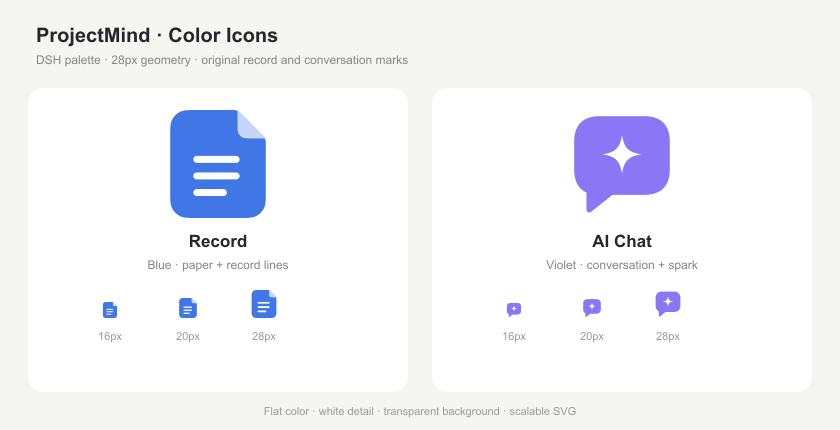
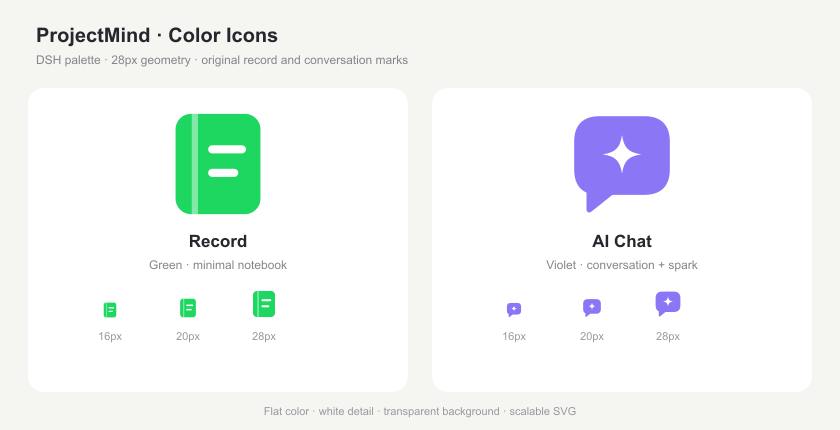
design: simplify Record notebook with green and pink variants (#124)

diff --git a/docs/design/record-ai-chat-icons-20261013.html b/docs/design/record-ai-chat-icons-20261013.html
@@ -1,53 +1,136 @@
-<!doctype html><html lang="zh-CN"><meta charset="utf-8"><meta name="viewport" content="width=device-width,initial-scale=1"><title>Record 与 AI 对话 · 彩色图标提案</title><style>*{box-sizing:border-box}body{margin:0;padding:48px 32px;background:#f5f5f2;color:#28282d;font-family:system-ui,-apple-system,sans-serif}main{max-width:850px;margin:auto}h1{font-size:26px;font-weight:600;margin:0 0 12px}.intro{color:#85858b;font-size:14px;margin:0 0 28px}.grid{display:grid;grid-template-columns:repeat(2,minmax(0,1fr));gap:20px}article{background:#fff;border-radius:16px;padding:34px 28px}h2{text-align:center;font-size:18px;margin:18px 0 8px}article>p{text-align:center;font-size:13px;color:#85858b;margin:0 0 28px}.hero{display:flex;justify-content:center}.sizes{display:flex;gap:30px;align-items:flex-end;justify-content:center;padding-bottom:28px}.sizes>span{display:flex;flex-direction:column;align-items:center;gap:10px}small{font-size:11px;color:#aaa}.tab{display:flex;align-items:center;gap:9px;padding:12px 14px;border-radius:8px;font-size:13px;background:#f4f4f7;margin:8px 0}.dark{background:#25242b;color:#e9e8ee}svg{display:block;flex:none}footer{margin-top:22px;font-size:12px;color:#999;text-align:center}@media(max-width:600px){body{padding:24px 16px}.grid{grid-template-columns:1fr}}</style><main><h1>Record 与 AI 对话</h1><p class="intro">参照 DSH 彩色图标：实色、圆角、白色标记；放大预览与实际使用尺寸。</p><div class="grid"><article><div class="hero"><svg xmlns="http://www.w3.org/2000/svg" width="112" height="112" viewBox="0 0 28 28" fill="none">
+<!doctype html><html lang="zh-CN"><meta charset="utf-8"><meta name="viewport" content="width=device-width,initial-scale=1"><title>Record 与 AI 对话 · 彩色图标提案</title><style>*{box-sizing:border-box}body{margin:0;padding:48px 32px;background:#f5f5f2;color:#28282d;font-family:system-ui,-apple-system,sans-serif}main{max-width:850px;margin:auto}h1{font-size:26px;font-weight:600;margin:0 0 12px}.intro{color:#85858b;font-size:14px;margin:0 0 28px}.grid{display:grid;grid-template-columns:repeat(2,minmax(0,1fr));gap:20px}article{background:#fff;border-radius:16px;padding:34px 28px}h2{text-align:center;font-size:18px;margin:18px 0 8px}article>p{text-align:center;font-size:13px;color:#85858b;margin:0 0 28px}.hero{display:flex;justify-content:center}.sizes{display:flex;gap:30px;align-items:flex-end;justify-content:center;padding-bottom:28px}.sizes>span{display:flex;flex-direction:column;align-items:center;gap:10px}small{font-size:11px;color:#aaa}.tab{display:flex;align-items:center;gap:9px;padding:12px 14px;border-radius:8px;font-size:13px;background:#f4f4f7;margin:8px 0}.dark{background:#25242b;color:#e9e8ee}svg{display:block;flex:none}footer{margin-top:22px;font-size:12px;color:#999;text-align:center}@media(max-width:600px){body{padding:24px 16px}.grid{grid-template-columns:1fr}}</style><main><h1>Record 绿色／粉色与 AI 对话</h1><p class="intro">参照 DSH 彩色图标：实色、圆角、白色标记；放大预览与实际使用尺寸。</p><div class="grid"><article><div class="hero"><svg xmlns="http://www.w3.org/2000/svg" width="112" height="112" viewBox="0 0 28 28" fill="none">
   <title>Record</title>
-  <!-- Document silhouette follows the vendored MIT DSH FileTypeIcon; record mark is original. -->
-  <path d="M8.48924 28H19.5108C21.6479 28 22.7165 28 23.5594 27.6509C24.6833 27.1853 25.5762 26.2924 26.0417 25.1685C26.3909 24.3256 26.3909 23.257 26.3909 21.1199V8.79443C26.3909 8.32877 26.3909 8.09593 26.3471 7.87507C26.2887 7.58058 26.173 7.30042 26.0067 7.05048C25.882 6.86303 25.7177 6.69799 25.3893 6.36792L20.0611 1.01354C19.7304 .681235 19.5651 .515081 19.3769 .38885C19.126 .220541 18.8443 .103463 18.5481 .0443412C18.3259 0 18.0915 0 17.6226 0H8.48924C6.35209 0 5.28351 0 4.4406 .349145C3.31672 .814671 2.4238 1.70759 1.95828 2.83147C1.60913 3.67438 1.60913 4.74296 1.60913 6.88011V21.1199C1.60913 23.257 1.60913 24.3256 1.95828 25.1685C2.4238 26.2924 3.31672 27.1853 4.4406 27.6509C5.28351 28 6.35209 28 8.48924 28Z" fill="#4176E6"/>
-  <path d="M26.3909 7.37445L19.0525 0V3.77445C19.0525 4.89271 19.0525 5.45184 19.2352 5.89289C19.4788 6.48096 19.946 6.94818 20.5341 7.19176C20.9751 7.37445 21.5342 7.37445 22.6525 7.37445H26.3909Z" fill="#FFF" fill-opacity=".7"/>
-  <path d="M8.5 12.8H18.7M8.5 17.1H18.7M8.5 21.4H15.4" stroke="#FFF" stroke-width="1.8" stroke-linecap="round"/>
+  <!-- Original minimal notebook: continuous spine, two record lines, no binding dots. -->
+  <rect x="3" y="1" width="22" height="26" rx="4" fill="#1ED760"/>
+  <path d="M8 1V27" stroke="#FFF" stroke-opacity=".45" stroke-width="1.6"/>
+  <path d="M12.5 10.2H20.2M12.5 16.3H18.2" stroke="#FFF" stroke-width="2.1" stroke-linecap="round"/>
 </svg>
-</div><h2>Record · 记录</h2><p>蓝色折角纸页，白色记录线</p><div class="sizes"><span><svg xmlns="http://www.w3.org/2000/svg" width="16" height="16" viewBox="0 0 28 28" fill="none">
+
+
+</div><h2>Record · 绿色</h2><p>绿色简洁笔记本，连续书脊与两条记录线</p><div class="sizes"><span><svg xmlns="http://www.w3.org/2000/svg" width="16" height="16" viewBox="0 0 28 28" fill="none">
   <title>Record</title>
-  <!-- Document silhouette follows the vendored MIT DSH FileTypeIcon; record mark is original. -->
-  <path d="M8.48924 28H19.5108C21.6479 28 22.7165 28 23.5594 27.6509C24.6833 27.1853 25.5762 26.2924 26.0417 25.1685C26.3909 24.3256 26.3909 23.257 26.3909 21.1199V8.79443C26.3909 8.32877 26.3909 8.09593 26.3471 7.87507C26.2887 7.58058 26.173 7.30042 26.0067 7.05048C25.882 6.86303 25.7177 6.69799 25.3893 6.36792L20.0611 1.01354C19.7304 .681235 19.5651 .515081 19.3769 .38885C19.126 .220541 18.8443 .103463 18.5481 .0443412C18.3259 0 18.0915 0 17.6226 0H8.48924C6.35209 0 5.28351 0 4.4406 .349145C3.31672 .814671 2.4238 1.70759 1.95828 2.83147C1.60913 3.67438 1.60913 4.74296 1.60913 6.88011V21.1199C1.60913 23.257 1.60913 24.3256 1.95828 25.1685C2.4238 26.2924 3.31672 27.1853 4.4406 27.6509C5.28351 28 6.35209 28 8.48924 28Z" fill="#4176E6"/>
-  <path d="M26.3909 7.37445L19.0525 0V3.77445C19.0525 4.89271 19.0525 5.45184 19.2352 5.89289C19.4788 6.48096 19.946 6.94818 20.5341 7.19176C20.9751 7.37445 21.5342 7.37445 22.6525 7.37445H26.3909Z" fill="#FFF" fill-opacity=".7"/>
-  <path d="M8.5 12.8H18.7M8.5 17.1H18.7M8.5 21.4H15.4" stroke="#FFF" stroke-width="1.8" stroke-linecap="round"/>
+  <!-- Original minimal notebook: continuous spine, two record lines, no binding dots. -->
+  <rect x="3" y="1" width="22" height="26" rx="4" fill="#1ED760"/>
+  <path d="M8 1V27" stroke="#FFF" stroke-opacity=".45" stroke-width="1.6"/>
+  <path d="M12.5 10.2H20.2M12.5 16.3H18.2" stroke="#FFF" stroke-width="2.1" stroke-linecap="round"/>
 </svg>
+
+
 <small>16px</small></span><span><svg xmlns="http://www.w3.org/2000/svg" width="20" height="20" viewBox="0 0 28 28" fill="none">
   <title>Record</title>
-  <!-- Document silhouette follows the vendored MIT DSH FileTypeIcon; record mark is original. -->
-  <path d="M8.48924 28H19.5108C21.6479 28 22.7165 28 23.5594 27.6509C24.6833 27.1853 25.5762 26.2924 26.0417 25.1685C26.3909 24.3256 26.3909 23.257 26.3909 21.1199V8.79443C26.3909 8.32877 26.3909 8.09593 26.3471 7.87507C26.2887 7.58058 26.173 7.30042 26.0067 7.05048C25.882 6.86303 25.7177 6.69799 25.3893 6.36792L20.0611 1.01354C19.7304 .681235 19.5651 .515081 19.3769 .38885C19.126 .220541 18.8443 .103463 18.5481 .0443412C18.3259 0 18.0915 0 17.6226 0H8.48924C6.35209 0 5.28351 0 4.4406 .349145C3.31672 .814671 2.4238 1.70759 1.95828 2.83147C1.60913 3.67438 1.60913 4.74296 1.60913 6.88011V21.1199C1.60913 23.257 1.60913 24.3256 1.95828 25.1685C2.4238 26.2924 3.31672 27.1853 4.4406 27.6509C5.28351 28 6.35209 28 8.48924 28Z" fill="#4176E6"/>
-  <path d="M26.3909 7.37445L19.0525 0V3.77445C19.0525 4.89271 19.0525 5.45184 19.2352 5.89289C19.4788 6.48096 19.946 6.94818 20.5341 7.19176C20.9751 7.37445 21.5342 7.37445 22.6525 7.37445H26.3909Z" fill="#FFF" fill-opacity=".7"/>
-  <path d="M8.5 12.8H18.7M8.5 17.1H18.7M8.5 21.4H15.4" stroke="#FFF" stroke-width="1.8" stroke-linecap="round"/>
+  <!-- Original minimal notebook: continuous spine, two record lines, no binding dots. -->
+  <rect x="3" y="1" width="22" height="26" rx="4" fill="#1ED760"/>
+  <path d="M8 1V27" stroke="#FFF" stroke-opacity=".45" stroke-width="1.6"/>
+  <path d="M12.5 10.2H20.2M12.5 16.3H18.2" stroke="#FFF" stroke-width="2.1" stroke-linecap="round"/>
 </svg>
+
+
 <small>20px</small></span><span><svg xmlns="http://www.w3.org/2000/svg" width="28" height="28" viewBox="0 0 28 28" fill="none">
   <title>Record</title>
-  <!-- Document silhouette follows the vendored MIT DSH FileTypeIcon; record mark is original. -->
-  <path d="M8.48924 28H19.5108C21.6479 28 22.7165 28 23.5594 27.6509C24.6833 27.1853 25.5762 26.2924 26.0417 25.1685C26.3909 24.3256 26.3909 23.257 26.3909 21.1199V8.79443C26.3909 8.32877 26.3909 8.09593 26.3471 7.87507C26.2887 7.58058 26.173 7.30042 26.0067 7.05048C25.882 6.86303 25.7177 6.69799 25.3893 6.36792L20.0611 1.01354C19.7304 .681235 19.5651 .515081 19.3769 .38885C19.126 .220541 18.8443 .103463 18.5481 .0443412C18.3259 0 18.0915 0 17.6226 0H8.48924C6.35209 0 5.28351 0 4.4406 .349145C3.31672 .814671 2.4238 1.70759 1.95828 2.83147C1.60913 3.67438 1.60913 4.74296 1.60913 6.88011V21.1199C1.60913 23.257 1.60913 24.3256 1.95828 25.1685C2.4238 26.2924 3.31672 27.1853 4.4406 27.6509C5.28351 28 6.35209 28 8.48924 28Z" fill="#4176E6"/>
-  <path d="M26.3909 7.37445L19.0525 0V3.77445C19.0525 4.89271 19.0525 5.45184 19.2352 5.89289C19.4788 6.48096 19.946 6.94818 20.5341 7.19176C20.9751 7.37445 21.5342 7.37445 22.6525 7.37445H26.3909Z" fill="#FFF" fill-opacity=".7"/>
-  <path d="M8.5 12.8H18.7M8.5 17.1H18.7M8.5 21.4H15.4" stroke="#FFF" stroke-width="1.8" stroke-linecap="round"/>
+  <!-- Original minimal notebook: continuous spine, two record lines, no binding dots. -->
+  <rect x="3" y="1" width="22" height="26" rx="4" fill="#1ED760"/>
+  <path d="M8 1V27" stroke="#FFF" stroke-opacity=".45" stroke-width="1.6"/>
+  <path d="M12.5 10.2H20.2M12.5 16.3H18.2" stroke="#FFF" stroke-width="2.1" stroke-linecap="round"/>
 </svg>
+
+
 <small>28px</small></span><span><svg xmlns="http://www.w3.org/2000/svg" width="32" height="32" viewBox="0 0 28 28" fill="none">
   <title>Record</title>
-  <!-- Document silhouette follows the vendored MIT DSH FileTypeIcon; record mark is original. -->
-  <path d="M8.48924 28H19.5108C21.6479 28 22.7165 28 23.5594 27.6509C24.6833 27.1853 25.5762 26.2924 26.0417 25.1685C26.3909 24.3256 26.3909 23.257 26.3909 21.1199V8.79443C26.3909 8.32877 26.3909 8.09593 26.3471 7.87507C26.2887 7.58058 26.173 7.30042 26.0067 7.05048C25.882 6.86303 25.7177 6.69799 25.3893 6.36792L20.0611 1.01354C19.7304 .681235 19.5651 .515081 19.3769 .38885C19.126 .220541 18.8443 .103463 18.5481 .0443412C18.3259 0 18.0915 0 17.6226 0H8.48924C6.35209 0 5.28351 0 4.4406 .349145C3.31672 .814671 2.4238 1.70759 1.95828 2.83147C1.60913 3.67438 1.60913 4.74296 1.60913 6.88011V21.1199C1.60913 23.257 1.60913 24.3256 1.95828 25.1685C2.4238 26.2924 3.31672 27.1853 4.4406 27.6509C5.28351 28 6.35209 28 8.48924 28Z" fill="#4176E6"/>
-  <path d="M26.3909 7.37445L19.0525 0V3.77445C19.0525 4.89271 19.0525 5.45184 19.2352 5.89289C19.4788 6.48096 19.946 6.94818 20.5341 7.19176C20.9751 7.37445 21.5342 7.37445 22.6525 7.37445H26.3909Z" fill="#FFF" fill-opacity=".7"/>
-  <path d="M8.5 12.8H18.7M8.5 17.1H18.7M8.5 21.4H15.4" stroke="#FFF" stroke-width="1.8" stroke-linecap="round"/>
+  <!-- Original minimal notebook: continuous spine, two record lines, no binding dots. -->
+  <rect x="3" y="1" width="22" height="26" rx="4" fill="#1ED760"/>
+  <path d="M8 1V27" stroke="#FFF" stroke-opacity=".45" stroke-width="1.6"/>
+  <path d="M12.5 10.2H20.2M12.5 16.3H18.2" stroke="#FFF" stroke-width="2.1" stroke-linecap="round"/>
 </svg>
+
+
 <small>32px</small></span></div><div class="tab"><svg xmlns="http://www.w3.org/2000/svg" width="16" height="16" viewBox="0 0 28 28" fill="none">
   <title>Record</title>
-  <!-- Document silhouette follows the vendored MIT DSH FileTypeIcon; record mark is original. -->
-  <path d="M8.48924 28H19.5108C21.6479 28 22.7165 28 23.5594 27.6509C24.6833 27.1853 25.5762 26.2924 26.0417 25.1685C26.3909 24.3256 26.3909 23.257 26.3909 21.1199V8.79443C26.3909 8.32877 26.3909 8.09593 26.3471 7.87507C26.2887 7.58058 26.173 7.30042 26.0067 7.05048C25.882 6.86303 25.7177 6.69799 25.3893 6.36792L20.0611 1.01354C19.7304 .681235 19.5651 .515081 19.3769 .38885C19.126 .220541 18.8443 .103463 18.5481 .0443412C18.3259 0 18.0915 0 17.6226 0H8.48924C6.35209 0 5.28351 0 4.4406 .349145C3.31672 .814671 2.4238 1.70759 1.95828 2.83147C1.60913 3.67438 1.60913 4.74296 1.60913 6.88011V21.1199C1.60913 23.257 1.60913 24.3256 1.95828 25.1685C2.4238 26.2924 3.31672 27.1853 4.4406 27.6509C5.28351 28 6.35209 28 8.48924 28Z" fill="#4176E6"/>
-  <path d="M26.3909 7.37445L19.0525 0V3.77445C19.0525 4.89271 19.0525 5.45184 19.2352 5.89289C19.4788 6.48096 19.946 6.94818 20.5341 7.19176C20.9751 7.37445 21.5342 7.37445 22.6525 7.37445H26.3909Z" fill="#FFF" fill-opacity=".7"/>
-  <path d="M8.5 12.8H18.7M8.5 17.1H18.7M8.5 21.4H15.4" stroke="#FFF" stroke-width="1.8" stroke-linecap="round"/>
+  <!-- Original minimal notebook: continuous spine, two record lines, no binding dots. -->
+  <rect x="3" y="1" width="22" height="26" rx="4" fill="#1ED760"/>
+  <path d="M8 1V27" stroke="#FFF" stroke-opacity=".45" stroke-width="1.6"/>
+  <path d="M12.5 10.2H20.2M12.5 16.3H18.2" stroke="#FFF" stroke-width="2.1" stroke-linecap="round"/>
 </svg>
-<span>Record · 记录</span></div><div class="tab dark"><svg xmlns="http://www.w3.org/2000/svg" width="16" height="16" viewBox="0 0 28 28" fill="none">
+
+
+<span>Record · 绿色</span></div><div class="tab dark"><svg xmlns="http://www.w3.org/2000/svg" width="16" height="16" viewBox="0 0 28 28" fill="none">
   <title>Record</title>
-  <!-- Document silhouette follows the vendored MIT DSH FileTypeIcon; record mark is original. -->
-  <path d="M8.48924 28H19.5108C21.6479 28 22.7165 28 23.5594 27.6509C24.6833 27.1853 25.5762 26.2924 26.0417 25.1685C26.3909 24.3256 26.3909 23.257 26.3909 21.1199V8.79443C26.3909 8.32877 26.3909 8.09593 26.3471 7.87507C26.2887 7.58058 26.173 7.30042 26.0067 7.05048C25.882 6.86303 25.7177 6.69799 25.3893 6.36792L20.0611 1.01354C19.7304 .681235 19.5651 .515081 19.3769 .38885C19.126 .220541 18.8443 .103463 18.5481 .0443412C18.3259 0 18.0915 0 17.6226 0H8.48924C6.35209 0 5.28351 0 4.4406 .349145C3.31672 .814671 2.4238 1.70759 1.95828 2.83147C1.60913 3.67438 1.60913 4.74296 1.60913 6.88011V21.1199C1.60913 23.257 1.60913 24.3256 1.95828 25.1685C2.4238 26.2924 3.31672 27.1853 4.4406 27.6509C5.28351 28 6.35209 28 8.48924 28Z" fill="#4176E6"/>
-  <path d="M26.3909 7.37445L19.0525 0V3.77445C19.0525 4.89271 19.0525 5.45184 19.2352 5.89289C19.4788 6.48096 19.946 6.94818 20.5341 7.19176C20.9751 7.37445 21.5342 7.37445 22.6525 7.37445H26.3909Z" fill="#FFF" fill-opacity=".7"/>
-  <path d="M8.5 12.8H18.7M8.5 17.1H18.7M8.5 21.4H15.4" stroke="#FFF" stroke-width="1.8" stroke-linecap="round"/>
+  <!-- Original minimal notebook: continuous spine, two record lines, no binding dots. -->
+  <rect x="3" y="1" width="22" height="26" rx="4" fill="#1ED760"/>
+  <path d="M8 1V27" stroke="#FFF" stroke-opacity=".45" stroke-width="1.6"/>
+  <path d="M12.5 10.2H20.2M12.5 16.3H18.2" stroke="#FFF" stroke-width="2.1" stroke-linecap="round"/>
 </svg>
-<span>Record · 记录</span></div></article><article><div class="hero"><svg xmlns="http://www.w3.org/2000/svg" width="112" height="112" viewBox="0 0 28 28" fill="none">
+
+
+<span>Record · 绿色</span></div></article><article><div class="hero"><svg xmlns="http://www.w3.org/2000/svg" width="112" height="112" viewBox="0 0 28 28" fill="none">
+  <title>Record · Pink</title>
+  <!-- Original minimal notebook: continuous spine, two record lines, no binding dots. -->
+  <rect x="3" y="1" width="22" height="26" rx="4" fill="#FB7299"/>
+  <path d="M8 1V27" stroke="#FFF" stroke-opacity=".45" stroke-width="1.6"/>
+  <path d="M12.5 10.2H20.2M12.5 16.3H18.2" stroke="#FFF" stroke-width="2.1" stroke-linecap="round"/>
+</svg>
+
+
+</div><h2>Record · 粉色</h2><p>粉色简洁笔记本，连续书脊与两条记录线</p><div class="sizes"><span><svg xmlns="http://www.w3.org/2000/svg" width="16" height="16" viewBox="0 0 28 28" fill="none">
+  <title>Record · Pink</title>
+  <!-- Original minimal notebook: continuous spine, two record lines, no binding dots. -->
+  <rect x="3" y="1" width="22" height="26" rx="4" fill="#FB7299"/>
+  <path d="M8 1V27" stroke="#FFF" stroke-opacity=".45" stroke-width="1.6"/>
+  <path d="M12.5 10.2H20.2M12.5 16.3H18.2" stroke="#FFF" stroke-width="2.1" stroke-linecap="round"/>
+</svg>
+
+
+
+<small>16px</small></span><span><svg xmlns="http://www.w3.org/2000/svg" width="20" height="20" viewBox="0 0 28 28" fill="none">
+  <title>Record · Pink</title>
+  <!-- Original minimal notebook: continuous spine, two record lines, no binding dots. -->
+  <rect x="3" y="1" width="22" height="26" rx="4" fill="#FB7299"/>
+  <path d="M8 1V27" stroke="#FFF" stroke-opacity=".45" stroke-width="1.6"/>
+  <path d="M12.5 10.2H20.2M12.5 16.3H18.2" stroke="#FFF" stroke-width="2.1" stroke-linecap="round"/>
+</svg>
+
+
+
+<small>20px</small></span><span><svg xmlns="http://www.w3.org/2000/svg" width="28" height="28" viewBox="0 0 28 28" fill="none">
+  <title>Record · Pink</title>
+  <!-- Original minimal notebook: continuous spine, two record lines, no binding dots. -->
+  <rect x="3" y="1" width="22" height="26" rx="4" fill="#FB7299"/>
+  <path d="M8 1V27" stroke="#FFF" stroke-opacity=".45" stroke-width="1.6"/>
+  <path d="M12.5 10.2H20.2M12.5 16.3H18.2" stroke="#FFF" stroke-width="2.1" stroke-linecap="round"/>
+</svg>
+
+
+
+<small>28px</small></span><span><svg xmlns="http://www.w3.org/2000/svg" width="32" height="32" viewBox="0 0 28 28" fill="none">
+  <title>Record · Pink</title>
+  <!-- Original minimal notebook: continuous spine, two record lines, no binding dots. -->
+  <rect x="3" y="1" width="22" height="26" rx="4" fill="#FB7299"/>
+  <path d="M8 1V27" stroke="#FFF" stroke-opacity=".45" stroke-width="1.6"/>
+  <path d="M12.5 10.2H20.2M12.5 16.3H18.2" stroke="#FFF" stroke-width="2.1" stroke-linecap="round"/>
+</svg>
+
+
+
+<small>32px</small></span></div><div class="tab"><svg xmlns="http://www.w3.org/2000/svg" width="16" height="16" viewBox="0 0 28 28" fill="none">
+  <title>Record · Pink</title>
+  <!-- Original minimal notebook: continuous spine, two record lines, no binding dots. -->
+  <rect x="3" y="1" width="22" height="26" rx="4" fill="#FB7299"/>
+  <path d="M8 1V27" stroke="#FFF" stroke-opacity=".45" stroke-width="1.6"/>
+  <path d="M12.5 10.2H20.2M12.5 16.3H18.2" stroke="#FFF" stroke-width="2.1" stroke-linecap="round"/>
+</svg>
+
+
+
+<span>Record · 粉色</span></div><div class="tab dark"><svg xmlns="http://www.w3.org/2000/svg" width="16" height="16" viewBox="0 0 28 28" fill="none">
+  <title>Record · Pink</title>
+  <!-- Original minimal notebook: continuous spine, two record lines, no binding dots. -->
+  <rect x="3" y="1" width="22" height="26" rx="4" fill="#FB7299"/>
+  <path d="M8 1V27" stroke="#FFF" stroke-opacity=".45" stroke-width="1.6"/>
+  <path d="M12.5 10.2H20.2M12.5 16.3H18.2" stroke="#FFF" stroke-width="2.1" stroke-linecap="round"/>
+</svg>
+
+
+
+<span>Record · 粉色</span></div></article><article><div class="hero"><svg xmlns="http://www.w3.org/2000/svg" width="112" height="112" viewBox="0 0 28 28" fill="none">
   <title>AI 对话</title>
   <!-- Original conversation silhouette; violet matches the DSH image/video palette. -->
   <path d="M8.2 1.6H19.8C24.12 1.6 26.4 3.88 26.4 8.2V15.4C26.4 19.72 24.12 22 19.8 22H11.5L6 26.4C5.5 26.8 4.8 26.46 4.8 25.82V21.42C2.66 20.48 1.6 18.44 1.6 15.4V8.2C1.6 3.88 3.88 1.6 8.2 1.6Z" fill="#8B76F6"/>

diff --git a/docs/requirements/project-content-tabs-execution.md b/docs/requirements/project-content-tabs-execution.md
@@ -32,10 +32,10 @@
 
 ### 2026-10-13 Record／AI 对话彩色图标设计包（#124）
 
-- 依赖：上一包 DSH 彩色 FileTypeIcon 的图形和静态配色；用户要求新增 Record 与 AI 对话设计。交付：两个可缩放 SVG、放大及 16／20／28／32px 预览；应用内接入另包。本包不涉及运行时、文件映射、版本、数据或 Tab 排版。
-- 设计：Record 使用 DSH 蓝色 `#4176E6`、既有折角纸页轮廓和原创白色记录线；AI 对话使用 DSH 图片／视频紫色 `#8B76F6`、原创圆角气泡和白色星芒。相同 28px 网格，透明背景；Record 的来源轮廓仍受仓库既有 DSH MIT 许可覆盖。
+- 依赖：上一包 DSH 彩色 FileTypeIcon 的图形和静态配色；用户要求新增 Record 与 AI 对话设计。交付：Record 两种配色与 AI 对话的可缩放 SVG、放大及 16／20／28／32px 预览；应用内接入另包。本包不涉及运行时、文件映射、版本、数据或 Tab 排版。
+- 设计：用户反馈初版 Record 折角纸页与文件相似，并要求简化装订细节。Record 改为原创圆角笔记本、连续书脊和两条白色记录线，交付绿色 `#1ED760`、粉色 `#FB7299` 两个配色方案；AI 对话沿用 DSH 图片／视频紫色 `#8B76F6`、原创圆角气泡和白色星芒。相同 28px 网格，透明背景；Record 通过颜色与笔记本轮廓和原文件图标区分。
 - 验收与验证：两份 SVG XML／viewBox 和无脚本／外部图片检查通过；通过 bundled Sharp 从 SVG 渲染 PNG，确认 16px 非空且透明背景保留；主 agent 检查预览中线条、星芒及轮廓，小尺寸清晰，Standards／Spec 自查通过。纯静态设计资产未运行应用构建或单元全量，未启动窗口。
-- 文件：`src/assets/icons/record-color.svg`、`ai-chat-color.svg`；`docs/design/record-ai-chat-icons-20261013.html` 和 `.png`。当前临时图标选择页已将两个设计置顶，保留 59 个 DSH 彩色参考项，用户可刷新查看。
+- 文件：`src/assets/icons/record-color.svg`（绿色）、`record-color-pink.svg`、`ai-chat-color.svg`；`docs/design/record-ai-chat-icons-20261013.html` 和 `.png`，以及两种 Record 配色对比 `record-file-comparison-20261013.png`。当前临时选择页置顶 Record 两种配色和 AI 对话，保留 59 个 DSH 彩色参考项，用户可刷新查看。两种简化 Record 的最终 16px 渲染和透明背景已验证；主 agent 检查配色与装订点移除，纯资产变更复用原验证范围。
 
 ### 2026-10-13 文件与应用图标工作包（#124）
 
